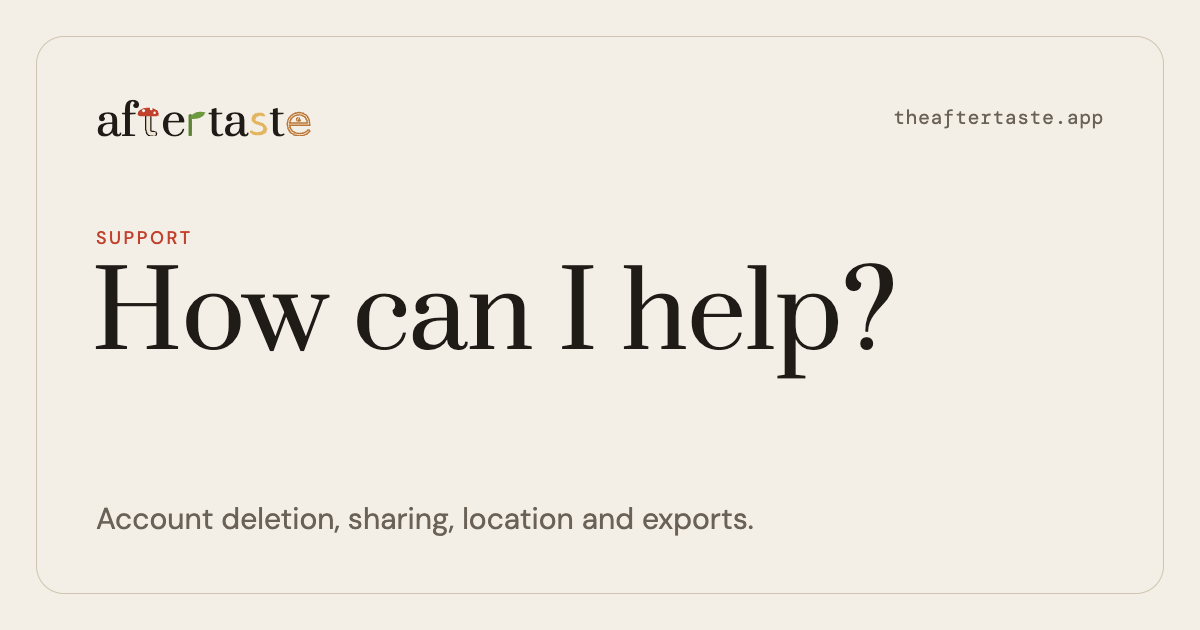
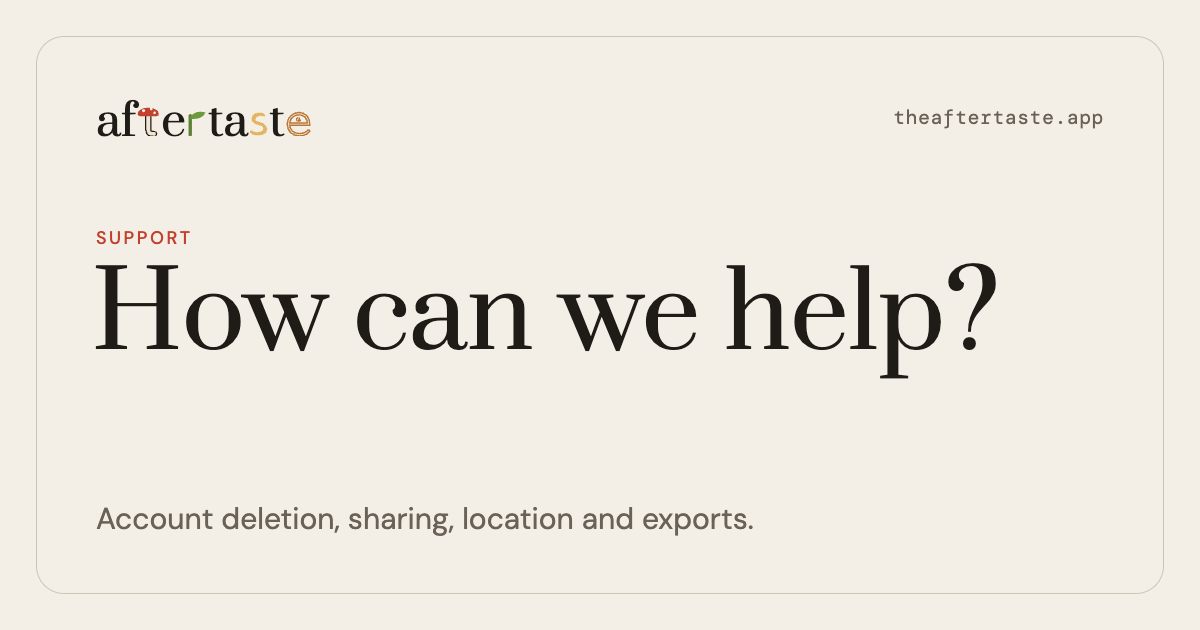
fix: remove personal name, accessible wordmark, run-together text, email note
- No personal name: footer, JSON-LD (Organization only), support copy (we/us), OG image re-rendered
- check:no-name gate (dist/, legal pages temporarily exempt with a warning)
- Wordmark: hidden real text, drawn letters as CSS content, aria-hidden parts; hero h1 reads 'Aftertaste — Your personal food memory'
- Spaces/separators between adjacent inline elements (Play plate, rating + visits, running heads, rows, footer, legal meta)
- Docs: Cloudflare email obfuscation note, gate count, TASKS legal resync

Changed region(s): [[0.4625, 0.4222, 0.8325, 0.6032]]

diff --git a/src/styles/brand.css b/src/styles/brand.css
@@ -90,6 +90,11 @@
   display: inline-block;
 }
 
+/* The drawn letters are generated content: not page text, never read as "afetat". */
+.wm-c[data-c]::before {
+  content: attr(data-c);
+}
+
 /* Glyph box bottom on the text baseline (brand.json wordmark.baseline). */
 .glyph {
   display: inline-block;
@@ -117,25 +122,25 @@
     animation-delay: calc(80ms + var(--i, 0) * var(--stagger));
   }
 
-  .wordmark--animate .wm-line:first-child > :nth-child(2) {
+  .wordmark--animate .wm-l1 > :nth-child(2) {
     --i: 1;
   }
-  .wordmark--animate .wm-line:first-child > :nth-child(4) {
+  .wordmark--animate .wm-l1 > :nth-child(4) {
     --i: 2;
   }
-  .wordmark--animate .wm-line:last-child > :nth-child(1) {
+  .wordmark--animate .wm-l2 > :nth-child(1) {
     --i: 3;
   }
-  .wordmark--animate .wm-line:last-child > :nth-child(2) {
+  .wordmark--animate .wm-l2 > :nth-child(2) {
     --i: 4;
   }
-  .wordmark--animate .wm-line:last-child > :nth-child(3) {
+  .wordmark--animate .wm-l2 > :nth-child(3) {
     --i: 5;
   }
-  .wordmark--animate .wm-line:last-child > :nth-child(4) {
+  .wordmark--animate .wm-l2 > :nth-child(4) {
     --i: 6;
   }
-  .wordmark--animate .wm-line:last-child > :nth-child(5) {
+  .wordmark--animate .wm-l2 > :nth-child(5) {
     --i: 7;
   }
 

diff --git a/src/config/site.ts b/src/config/site.ts
@@ -10,8 +10,6 @@ export const site = {
   tagline: 'Your personal food memory',
   description:
     'Aftertaste is a private food diary for Android. Log the places you eat at and every dish you order, with a photo and a rating, and know what to order next time.',
-  owner: 'Paras Dev Prasad',
-  ownerFirstName: 'Paras',
   contactEmail: 'hello@theaftertaste.app',
   /**
    * Google Play listing URL. While null, the site shows a "Coming soon on
@@ -19,7 +17,7 @@ export const site = {
    * live (and add Google's official badge, see README "Play badge").
    */
   playStoreUrl: null as string | null,
-  notifySubject: 'Tell me when Aftertaste is on Google Play',
+  notifySubject: 'Tell us when Aftertaste is on Google Play',
   themeColor: { light: '#F4EFE6', dark: '#16130F' },
 } as const;
 

diff --git a/README.md b/README.md
@@ -36,19 +36,19 @@ npm run serve:dist # serve dist/ like Cloudflare Pages (clean URLs, _headers inc
 
 ## Scripts
 
-| Script                     | What it does                                                                                                                                                                                                                         |
-| -------------------------- | ------------------------------------------------------------------------------------------------------------------------------------------------------------------------------------------------------------------------------------ |
-| `npm run gates`            | Every gate, in order, stopping at the first failure: build (no warnings except `[legal-todo]`), `astro check`, ESLint, Prettier, html-validate, internal links, SEO, CSP, JS budget, contrast, no-app-code. Run before every commit. |
-| `npm run check:*`          | The gates one at a time (`types`, `html`, `links`, `seo`, `csp`, `budget`, `contrast`, `no-app-code`). `lint` and `format:check` too.                                                                                                |
-| `npm run sync:legal`       | Copies the legal markdown from the app repo (see below).                                                                                                                                                                             |
-| `npm run og`               | Renders the Open Graph images into `public/og/` (needs Chrome).                                                                                                                                                                      |
-| `npm run icons`            | Builds `favicon.ico`, the apple-touch and manifest icons from `public/favicon.svg` and `brand/app-icon-1024.png`.                                                                                                                    |
-| `npm run placeholders`     | Re-renders the placeholder app screenshot (needs Chrome).                                                                                                                                                                            |
-| `npm run csp:hash`         | Updates the theme script's hash in `public/_headers` after editing `src/scripts/theme.js`.                                                                                                                                           |
-| `npm run fonts:subset`     | Re-subsets the fonts (needs `APP_REPO_PATH` and `pip install fonttools==4.55.0 brotli==1.1.0`).                                                                                                                                      |
-| `npm run audit:screens`    | Screenshots at 375/768/1440 in light and dark into `reports/screens/` (`--pages=`, `--widths=`, `--themes=`, `--reduced`).                                                                                                           |
-| `npm run audit:a11y`       | axe-core (WCAG 2.2 A/AA rules) on every page in both themes, plus keyboard checks of the demo and the theme toggle.                                                                                                                  |
-| `npm run audit:lighthouse` | Lighthouse 13.6.0 (via `npx`, not a dependency), mobile and desktop, into `reports/lighthouse/`. Targets: ≥ 95 in every category, LCP < 2.0 s, CLS < 0.05.                                                                           |
+| Script                     | What it does                                                                                                                                                                                                                                           |
+| -------------------------- | ------------------------------------------------------------------------------------------------------------------------------------------------------------------------------------------------------------------------------------------------------ |
+| `npm run gates`            | Every gate, in order, stopping at the first failure: build (no warnings except `[legal-todo]`), `astro check`, ESLint, Prettier, html-validate, internal links, SEO, CSP, JS budget, contrast, no-app-code, no personal name. Run before every commit. |
+| `npm run check:*`          | The gates one at a time (`types`, `html`, `links`, `seo`, `csp`, `budget`, `contrast`, `no-app-code`, `no-name`). `lint` and `format:check` too.                                                                                                       |
+| `npm run sync:legal`       | Copies the legal markdown from the app repo (see below).                                                                                                                                                                                               |
+| `npm run og`               | Renders the Open Graph images into `public/og/` (needs Chrome).                                                                                                                                                                                        |
+| `npm run icons`            | Builds `favicon.ico`, the apple-touch and manifest icons from `public/favicon.svg` and `brand/app-icon-1024.png`.                                                                                                                                      |
+| `npm run placeholders`     | Re-renders the placeholder app screenshot (needs Chrome).                                                                                                                                                                                              |
+| `npm run csp:hash`         | Updates the theme script's hash in `public/_headers` after editing `src/scripts/theme.js`.                                                                                                                                                             |
+| `npm run fonts:subset`     | Re-subsets the fonts (needs `APP_REPO_PATH` and `pip install fonttools==4.55.0 brotli==1.1.0`).                                                                                                                                                        |
+| `npm run audit:screens`    | Screenshots at 375/768/1440 in light and dark into `reports/screens/` (`--pages=`, `--widths=`, `--themes=`, `--reduced`).                                                                                                                             |
+| `npm run audit:a11y`       | axe-core (WCAG 2.2 A/AA rules) on every page in both themes, plus keyboard checks of the demo and the theme toggle.                                                                                                                                    |
+| `npm run audit:lighthouse` | Lighthouse 13.6.0 (via `npx`, not a dependency), mobile and desktop, into `reports/lighthouse/`. Targets: ≥ 95 in every category, LCP < 2.0 s, CLS < 0.05.                                                                                             |
 
 The audit scripts use the system Chrome at `/Applications/Google Chrome.app`; set `CHROME_PATH` elsewhere.
 
@@ -77,6 +77,8 @@ No secrets or other environment variables are needed. Preview deployments of oth
    - Check with `curl --head -i https://www.theaftertaste.app/privacy`: expect `301` and `location: https://theaftertaste.app/privacy`.
 
 **Zone settings to keep off**, because they inject scripts or rewrite HTML and would break the CSP: Email Address Obfuscation (Scrape Shield), Rocket Loader, Web Analytics automatic setup, and any “JavaScript detections” challenge. Keep “Always Use HTTPS” on.
+
+**Email Address Obfuscation must be off.** It rewrites `mailto:` links and injects an inline script, which the CSP blocks. The site's email links are plain `mailto:` hrefs and the address is plain text, so they work without it (`dist/` contains no `/cdn-cgi/` email-protection links); with it on, links can break and the console shows CSP errors. See `docs/MEMORY.md`.
 
 **Headers and redirects** live in `public/_headers` (CSP, HSTS, `nosniff`, referrer and permissions policies, `frame-ancestors 'none'`, immutable caching for fingerprinted `/_astro/*` files) and `public/_redirects` (trailing slashes, friendly aliases such as `/delete-account`). HSTS is sent with `includeSubDomains; preload`. The whole `.app` TLD is already on the browsers' HSTS preload list, so there is nothing to submit.
 

diff --git a/docs/DEV-GUIDE.md b/docs/DEV-GUIDE.md
@@ -39,19 +39,20 @@ All scripts are in [package.json](../package.json). Astro telemetry is disabled 
 
 `npm run gates` ([scripts/gates.mjs](../scripts/gates.mjs)) runs all of these in order and stops at the first failure. The build step also fails on any build warning other than `[legal-todo]`. Run it before every commit. Most checks read `dist/`, so they need a build; `gates` builds first, but when running a check alone run `npm run build` first.
 
-| Gate          | Script                      | Checks                                                                                            |
-| ------------- | --------------------------- | ------------------------------------------------------------------------------------------------- |
-| build         | `npx astro build`           | Builds, no unexpected warnings                                                                    |
-| astro check   | `npm run check:types`       | TypeScript and Astro diagnostics                                                                  |
-| eslint        | `npm run lint`              | ESLint, zero warnings                                                                             |
-| prettier      | `npm run format:check`      | Formatting of every file                                                                          |
-| html-validate | `npm run check:html`        | HTML of every built page                                                                          |
-| links         | `npm run check:links`       | Internal links, assets and `#fragments` in `dist/`; relative links and files in the Markdown docs |
-| seo           | `npm run check:seo`         | Sitemap, robots, titles, descriptions, canonicals, OG, HTTPS only, canonical host                 |
-| csp           | `npm run check:csp`         | Inline script hashes match `_headers`, no inline styles, no third parties                         |
-| js budget     | `npm run check:budget`      | Landing ≤ 30 KB gz JS; other pages ship no script files                                           |
-| contrast      | `npm run check:contrast`    | WCAG contrast of text token pairs in both themes                                                  |
-| no app code   | `npm run check:no-app-code` | No app identifiers or secrets; with `APP_REPO_PATH` also compares app env values                  |
+| Gate             | Script                      | Checks                                                                                            |
+| ---------------- | --------------------------- | ------------------------------------------------------------------------------------------------- |
+| build            | `npx astro build`           | Builds, no unexpected warnings                                                                    |
+| astro check      | `npm run check:types`       | TypeScript and Astro diagnostics                                                                  |
+| eslint           | `npm run lint`              | ESLint, zero warnings                                                                             |
+| prettier         | `npm run format:check`      | Formatting of every file                                                                          |
+| html-validate    | `npm run check:html`        | HTML of every built page                                                                          |
+| links            | `npm run check:links`       | Internal links, assets and `#fragments` in `dist/`; relative links and files in the Markdown docs |
+| seo              | `npm run check:seo`         | Sitemap, robots, titles, descriptions, canonicals, OG, HTTPS only, canonical host                 |
+| csp              | `npm run check:csp`         | Inline script hashes match `_headers`, no inline styles, no third parties                         |
+| js budget        | `npm run check:budget`      | Landing ≤ 30 KB gz JS; other pages ship no script files                                           |
+| contrast         | `npm run check:contrast`    | WCAG contrast of text token pairs in both themes                                                  |
+| no app code      | `npm run check:no-app-code` | No app identifiers or secrets; with `APP_REPO_PATH` also compares app env values                  |
+| no personal name | `npm run check:no-name`     | The owner's first name is not in `dist/` (legal pages exempt, with a warning, until re-synced)    |
 
 ### Sync and generators
 
@@ -64,7 +65,7 @@ All scripts are in [package.json](../package.json). Astro telemetry is disabled 
 | `npm run placeholders` | Re-renders the placeholder hero screenshot (needs Chrome).                                                                                                             |
 | `npm run fonts:subset` | Re-subsets the fonts from the app repo's font packages. Needs `APP_REPO_PATH` and `pip install fonttools==4.55.0 brotli==1.1.0`. Outputs are committed; rarely needed. |
 
-`scripts/slice-screens.mjs` slices tall screenshots for reading (`node scripts/slice-screens.mjs <file.png>`). `scripts/.cls.mjs` and `scripts/.fontshift.mjs` are throwaway diagnostics for layout shift (see [MEMORY](MEMORY.md#font-loading-layout-shift)).
+`scripts/.runtogether.mjs` (ad hoc) lists adjacent inline text with no space between, which reads as one word in the page text (`node scripts/.runtogether.mjs`, needs `dist/` and Chrome). `scripts/slice-screens.mjs` slices tall screenshots for reading (`node scripts/slice-screens.mjs <file.png>`). `scripts/.cls.mjs` and `scripts/.fontshift.mjs` are throwaway diagnostics for layout shift (see [MEMORY](MEMORY.md#font-loading-layout-shift)).
 
 ### Audits (need Chrome and a build)
 

diff --git a/docs/MEMORY.md b/docs/MEMORY.md
@@ -44,6 +44,29 @@ Durable lessons so future sessions do not repeat mistakes. Each entry: what happ
 - **Why:** Email Address Obfuscation, Rocket Loader, automatic Web Analytics and "JavaScript detections" add scripts the strict CSP blocks; they also break the no-third-party promise.
 - **What to do:** keep them off. If analytics is ever wanted, use the manual snippet and extend the CSP deliberately (README "Analytics"). Verify production headers and the console after any zone change.
 
+## Email links and Cloudflare Email Address Obfuscation
+
+- **What happened:** Cloudflare's Email Address Obfuscation (Scrape Shield) can rewrite `mailto:` links and addresses into `/cdn-cgi/l/email-protection` links and inject an inline decoder script.
+- **Why it matters:** the inline script is blocked by the strict CSP (no hash for it), so the links break and the console shows CSP errors.
+- **What to do:** keep the setting **off** (the owner turns it off in the zone). The site does not depend on it: every email is a plain `<a href="mailto:hello@theaftertaste.app">` (the "Get notified" one adds a subject) and the address is plain text, with no JS involved. After any zone change check `curl -s https://theaftertaste.app | grep -c email-protection` is `0` and click a mail link.
+
+## The wordmark must have real text
+
+- **What happened:** the wordmark is drawn from letters plus food glyphs; screen readers and the page text read it as "afetat" (the glyphs have no text).
+- **Why:** the visible letters were text nodes and the glyphs SVGs without names.
+- **What to do:** `Wordmark.astro` renders a visually hidden "Aftertaste" and hides the drawn parts with `aria-hidden`; the drawn letters are CSS `::before` content (`data-c`), so they are also not in `textContent`. Never put the drawn letters back as text. The hero `h1` adds a hidden " — " so it reads "Aftertaste — Your personal food memory". Check with `locator.ariaSnapshot()` in Playwright and `npm run audit:a11y`.
+
+## Run-together text
+
+- **What happened:** adjacent inline elements with no whitespace between them read as one word in `textContent` and to some assistive tech ("Coming soon onGoogle Play", "Rated 4.6 out of 53 visits", "01How it works").
+- **Why:** Astro drops whitespace between elements, and flex/grid containers hide it visually, so nothing looked wrong.
+- **What to do:** put `{' '}` between such elements (flex/grid ignore it, so layout is unchanged) or a visually hidden separator (`<span class="visually-hidden"> · </span>`). Run `node scripts/.runtogether.mjs` after building to list remaining cases.
+
+## No personal name on the site
+
+- **What happened:** the owner's name was in the footer, JSON-LD, support copy and the synced legal text.
+- **What to do:** the responsible party is "Aftertaste"; copy says "we". `npm run check:no-name` (a gate) fails if the name appears in `dist/`. The legal pages are exempt, with a printed warning, until the app repo's legal text changes and `sync:legal` is re-run; then delete `PENDING_LEGAL_RESYNC` in `scripts/check-no-name.mjs`. The sync script needs no change: it never inspects the policy wording.
+
 ## The legal sync link rewrite
 
 - **What happened:** the app repo's legal drafts linked to the old domain.

diff --git a/docs/RULES.md b/docs/RULES.md
@@ -11,6 +11,8 @@ The hard rules for this repo. They are the source of truth; `CLAUDE.md` links he
 
 ## Privacy and third parties
 
+- **No personal name anywhere on the site** (pages, footer, JSON-LD, OG images, meta, legal text once re-synced). The responsible party is "Aftertaste"; copy says "we" and "us". `npm run check:no-name` fails the build if the owner's first name appears in `dist/` (case-insensitive whole word). Temporary exception: the synced legal pages, until the app repo's legal text changes ([TASKS](TASKS.md)).
+
 - No analytics, cookies, trackers or third-party requests. Fonts and assets are self-hosted. Astro telemetry is off in the npm scripts.
 - Cloudflare Web Analytics is off. Enabling it needs a deliberate decision plus CSP and privacy-copy changes (README "Analytics").
 - Keep these Cloudflare features **off** (they inject scripts or rewrite HTML and break the CSP): Email Address Obfuscation, Rocket Loader, automatic Web Analytics, "JavaScript detections".
@@ -44,7 +46,7 @@ The hard rules for this repo. They are the source of truth; `CLAUDE.md` links he
 
 ## Copy
 
-- Warm, short, specific, sentence case. Write as one person talking to another ("Aftertaste is made by one person").
+- Warm, short, specific, sentence case. Write as people talking to a person, in "we" and "us" (never first person singular, never a personal name).
 - **Banned words:** unlock, elevate, seamless, revolutionize, delve, supercharge, game-changer, "in today's fast-paced world", effortlessly, all-in-one.
 - No emoji, no stock-photo language, no hype. Feature names are the app's own (Want to try, Tried, What should we eat?, Pick for me).
 - Demo places and friends are invented examples, and the demo says so.
@@ -72,4 +74,4 @@ Mirrors the app repo: `task/<name>` → `work-branch` → `main`.
 
 ## Quality gate
 
-**Every change must pass `npm run gates`** before commit (11 gates: build, `astro check`, ESLint, Prettier, html-validate, links, SEO, CSP, JS budget, contrast, no-app-code). Details in [DEV-GUIDE](DEV-GUIDE.md#gates).
+**Every change must pass `npm run gates`** before commit (12 gates: build, `astro check`, ESLint, Prettier, html-validate, links, SEO, CSP, JS budget, contrast, no-app-code, no personal name). Details in [DEV-GUIDE](DEV-GUIDE.md#gates).

diff --git a/.claude/project-state/current-state.md b/.claude/project-state/current-state.md
@@ -3,6 +3,6 @@
 - **Site:** static Astro site for https://theaftertaste.app (contact `hello@theaftertaste.app`), deployed by Cloudflare Pages from `main`. Target launch 23 Nov 2026 (owner-stated). At 2026-11-13 `origin/main` and `origin/work-branch` both pointed at `7b20e7c` (v1 merged). Whether the Cloudflare project is connected is not verifiable from this repo: see the launch checklist in `docs/TASKS.md`.
 - **Branches:** `task/website-v1` is merged. `task/website-docs` (this docs task) is local, awaiting "approved".
 - **Docs:** `docs/` (PRD, ARCHITECTURE, RULES, DESIGN, TASKS, MEMORY, DEV-GUIDE) is the source of truth for rules and architecture; this folder keeps live status and decisions.
-- **Gates:** `npm run gates` (11 gates; see CLAUDE.md). All pass. Audits: axe 0 violations; Lighthouse 100 in every category on mobile and desktop (404 SEO excluded: noindex).
+- **Gates:** `npm run gates` (12 gates; see docs/DEV-GUIDE.md). All pass. Audits: axe 0 violations; Lighthouse 100 in every category on mobile and desktop (404 SEO excluded: noindex).
 - **Legal:** synced from the app repo @ `95d7fbb` (2026-11-12): privacy 6 and terms 2 visible TODOs; contact `hello@theaftertaste.app`. Draft banner shows until resolved.
 - **Placeholders:** hero screenshot (rendered), Play badge ("Coming soon", `site.playStoreUrl` = null), no `assetlinks.json`.

diff --git a/.claude/project-state/active-work.md b/.claude/project-state/active-work.md
@@ -7,7 +7,7 @@ Branch `task/website-v1` from `work-branch` (root commit `3fa6519`; the repo had
 Read-only reads of the app repo (`DishDiary`, branch `work-branch`, legal docs at `f19f50e`):
 
 - **Product:** Aftertaste (display name; package identifiers stay `bitemarks`). Private food diary, Android only (no iOS app). Not yet on Google Play.
-- **Owner / contact:** Paras Dev Prasad, an individual in India; `w17.paras@gmail.com` (privacy policy and terms). Governing law: India, courts at Dehradun.
+- **Owner / contact:** an individual in India (named in the earlier legal drafts; the site publishes no personal name). Governing law: India, courts at Dehradun.
 - **Tagline:** "Your personal food memory" (LoginScreen). Store taglines: "Remember every good bite." Store short description: "Your private food diary: places, dishes, photos and what to eat next."
 - **Feature names (app copy):** Want to try, Tried, What should we eat?, Pick for me, Another, From your Want to try, One of your favourites, Loved by {name}, Near you, From friends, Visit logged, LOGGED stamp, RECOMMENDED · WOULD RETURN, MUST-TRY, TRIED, Export my data, Delete account, share my diary (discoverable).
 - **Icons:** Feather is the app icon set; Ionicons only for star/heart glyphs. No emoji as icons. Website uses `feather-icons` SVGs (MIT) inlined at build time.

diff --git a/docs/TASKS.md b/docs/TASKS.md
@@ -13,6 +13,10 @@ Target launch: **23 Nov 2026** (owner-stated).
 | `assetlinks.json` fingerprint | human supplies; Claude adds file and header rule | blocked                 | Needs the app's package name and the release-signing SHA-256 (Play Console → App integrity). Not needed for launch unless App Links are wanted. |
 | Legal TODOs                   | human (in the app repo); Claude re-syncs         | open: 8 visible         | See below.                                                                                                                                      |
 
+### Legal text still names a person
+
+The app repo's privacy policy ("Who is responsible") and terms ("between you and …") still name the owner, so `/privacy` and `/terms` still show the name (the only places). Owner: human changes both to "Aftertaste" in the app repo, then Claude runs `npm run sync:legal` and **deletes `PENDING_LEGAL_RESYNC`** in `scripts/check-no-name.mjs`, so the name gate covers the legal pages. **Launch blocker** if the name must not be public.
+
 ### Legal TODOs (synced from the app repo @ `95d7fbb`)
 
 Resolve in the app repo, then `npm run sync:legal`. The pages show a Draft banner until none remain.

diff --git a/docs/ARCHITECTURE.md b/docs/ARCHITECTURE.md
@@ -26,7 +26,7 @@ src/
     landing/            Hero, HowItWorks, Spread, DecisionDemo, ReceiptFeature, Privacy, Faq
     app/                replicas of app UI rows/cards used as demos
     LegalPage.astro, SiteHeader.astro, SiteFooter.astro
-  config/site.ts        name, URL, contact email, owner, Play URL (null = "Coming soon")
+  config/site.ts        name, URL, contact email, Play URL (null = "Coming soon")
   content/legal/        synced legal markdown (never edit by hand)
   content.config.ts     `legal` collection schema
   layouts/BaseLayout.astro
@@ -99,4 +99,4 @@ Details and reduced-motion behaviour per effect are in [DESIGN](DESIGN.md#motion
 
 ## Quality tooling
 
-`scripts/` holds the 11 gates (run by `npm run gates`), the audits (screenshots, axe, Lighthouse) and the asset generators. See [DEV-GUIDE](DEV-GUIDE.md#scripts). Live status and decisions: `.claude/project-state/`.
+`scripts/` holds the 12 gates (run by `npm run gates`), the audits (screenshots, axe, Lighthouse) and the asset generators. See [DEV-GUIDE](DEV-GUIDE.md#scripts). Live status and decisions: `.claude/project-state/`.

diff --git a/docs/PRD.md b/docs/PRD.md
@@ -14,7 +14,7 @@ The app lives in a separate repo. This site only reads brand assets, fonts, toke
 
 - People who hear about Aftertaste from a friend and want to know what it is (mostly on a phone, mostly Android, mostly India: the site is `en-IN`).
 - Google Play reviewers and users who need the privacy policy, terms, support contact or deletion instructions.
-- The owner and friends of the diary (the app is private and social only through shared diaries).
+- Friends who share diaries (the app is private and social only through shared diaries).
 
 ## Goals
 
